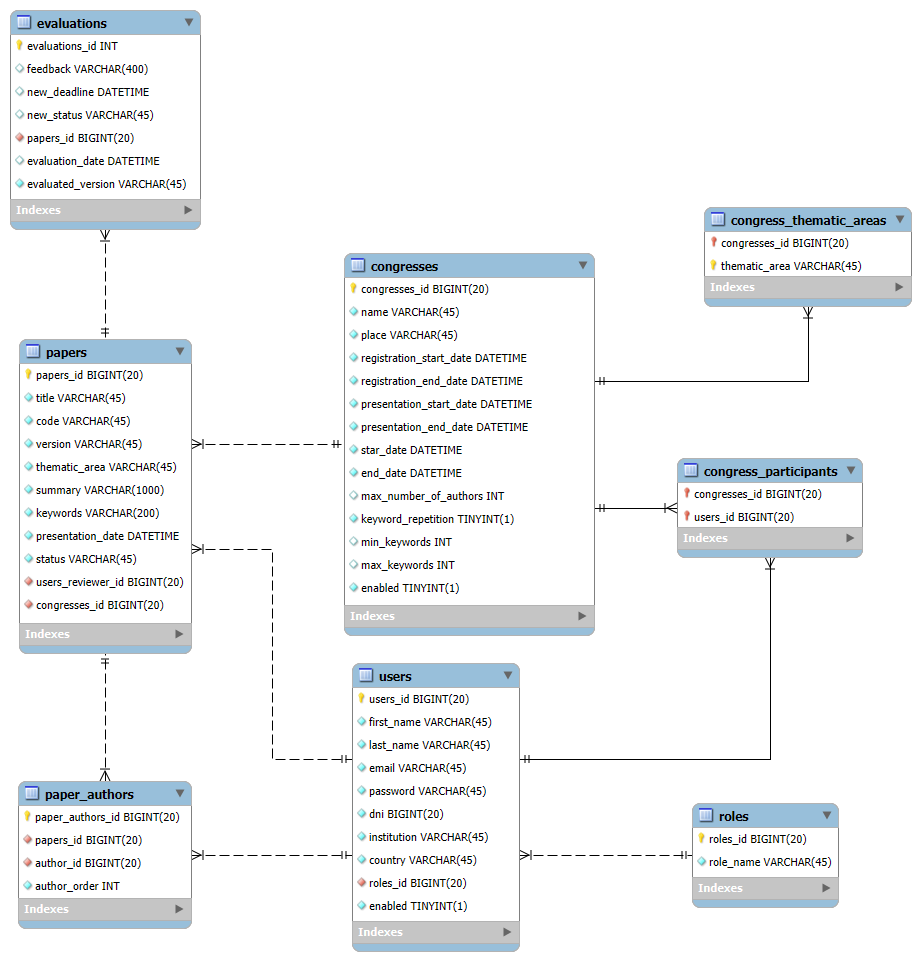
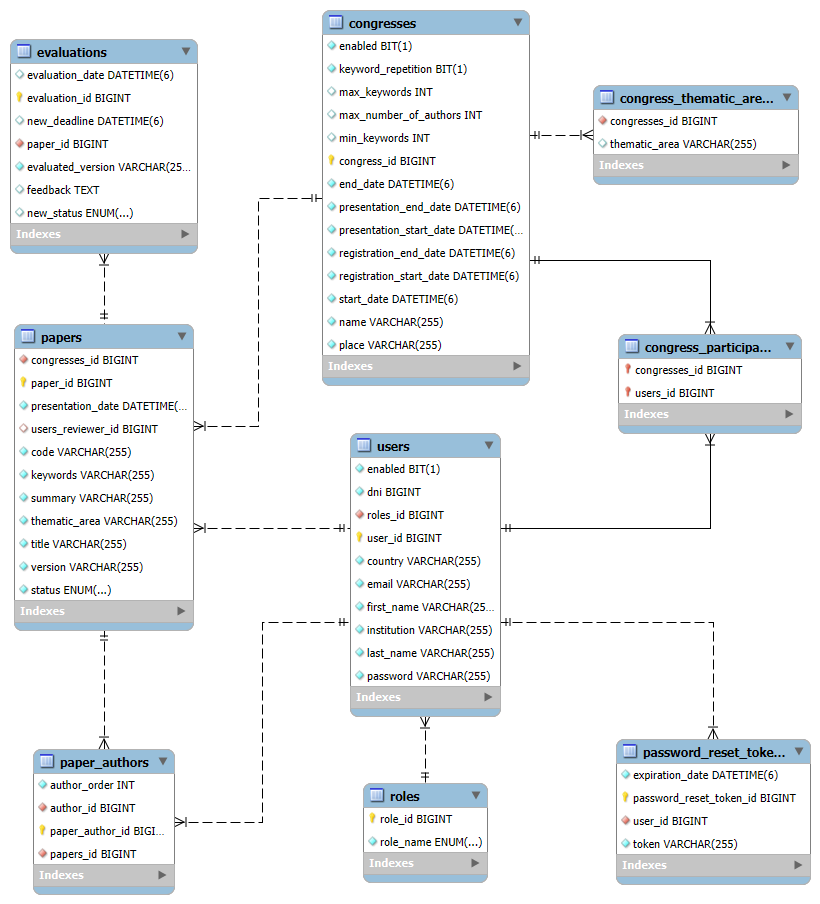
Genera flujo completo para recuperar contraseña de usuario

diff --git a/src/main/java/com/tfi/gestion_congresos_backend/services/impl/AuthServiceImpl.java b/src/main/java/com/tfi/gestion_congresos_backend/services/impl/AuthServiceImpl.java
@@ -1,15 +1,34 @@
 package com.tfi.gestion_congresos_backend.services.impl;
 
+import java.time.LocalDateTime;
+import java.time.ZoneId;
+import java.time.ZoneOffset;
+import java.util.Optional;
+import java.util.UUID;
+
 import org.springframework.security.crypto.password.PasswordEncoder;
 import org.springframework.stereotype.Service;
 
+import com.tfi.gestion_congresos_backend.dtos.auth.ForgotPasswordRequestDTO;
 import com.tfi.gestion_congresos_backend.dtos.auth.LoginRequestDTO;
 import com.tfi.gestion_congresos_backend.dtos.auth.LoginResponseDTO;
+import com.tfi.gestion_congresos_backend.dtos.auth.ResetPasswordRequestDTO;
+import com.tfi.gestion_congresos_backend.dtos.user.ChangePasswordRequestDTO;
+import com.tfi.gestion_congresos_backend.dtos.user.MessageResponseDTO;
+import com.tfi.gestion_congresos_backend.entities.PasswordResetToken;
 import com.tfi.gestion_congresos_backend.entities.User;
+import com.tfi.gestion_congresos_backend.exception.ArgumentNotValidException;
 import com.tfi.gestion_congresos_backend.exception.InvalidCredentialsException;
+import com.tfi.gestion_congresos_backend.exception.ResourceNotFoundException;
 import com.tfi.gestion_congresos_backend.exception.UserDisabledException;
 import com.tfi.gestion_congresos_backend.mapper.AuthMapper;
 import com.tfi.gestion_congresos_backend.services.AuthService;
+import com.tfi.gestion_congresos_backend.services.EmailService;
+import com.tfi.gestion_congresos_backend.utils.DateUtils;
+
+import jakarta.transaction.Transactional;
+
+import com.tfi.gestion_congresos_backend.repository.PasswordResetTokenRepository;
 import com.tfi.gestion_congresos_backend.repository.UserRepository;
 import com.tfi.gestion_congresos_backend.security.JwtService;
 
@@ -20,9 +39,11 @@ import lombok.*;
 public class AuthServiceImpl implements AuthService {
 
     private final UserRepository userRepository;
+    private final PasswordResetTokenRepository passwordResetTokenRepository;
     private final PasswordEncoder passwordEncoder;
     private final AuthMapper authMapper;
     private final JwtService jwtService;
+    private final EmailService emailService;
     
     @Override
     public LoginResponseDTO login(LoginRequestDTO request) {
@@ -45,4 +66,81 @@ public class AuthServiceImpl implements AuthService {
 
         return response;            
     }
+
+    @Override
+    public MessageResponseDTO forgotPassword(ForgotPasswordRequestDTO request) {
+        
+        ///Traer el usuario por mail
+        User user = userRepository.findByEmail(request.getEmail())
+        .orElseThrow(() -> new ResourceNotFoundException("User not found."));
+
+        Optional<PasswordResetToken> existingToken = passwordResetTokenRepository.findByUser(user);
+
+        PasswordResetToken passwordResetToken;
+
+        if (existingToken.isPresent()) {
+            passwordResetToken = existingToken.get();
+        } else {
+            passwordResetToken = new PasswordResetToken();
+        }
+
+        passwordResetToken.setUser(user);
+        passwordResetToken.setToken(UUID.randomUUID().toString());
+        passwordResetToken.setExpirationDate(DateUtils.now().plusMinutes(30));
+
+        passwordResetTokenRepository.save(passwordResetToken);
+
+        emailService.sendPasswordResetEmail(user, passwordResetToken.getToken());
+
+        return MessageResponseDTO.builder()
+            .message("Si el mail existe, el link de recuperación de contraseña a sido enviado.")
+            .build();
+    }
+
+    @Transactional
+    @Override
+    public MessageResponseDTO resetPassword(ResetPasswordRequestDTO request) {
+
+        PasswordResetToken passwordResetToken = passwordResetTokenRepository.findByToken(request.getToken())
+            .orElseThrow(() -> new ResourceNotFoundException("El token de recuperación no es válido."));
+
+        User user = passwordResetToken.getUser();
+
+        
+        validateTokenExpiration(passwordResetToken.getExpirationDate());
+        validatePasswordConfirmation(request.getNewPassword(), request.getConfirmPassword());
+        validateNewPassword(user.getPassword(), request.getNewPassword());
+
+        user.setPassword(passwordEncoder.encode(request.getNewPassword()));
+        userRepository.save(user);
+
+        passwordResetTokenRepository.delete(passwordResetToken);
+
+        return MessageResponseDTO.builder().message("Contraseña recuperada correctamente.").build();
+    }
+
+    ///PRIVADOS
+    private void validatePasswordConfirmation(String newPassword, String confirmPassword){
+        if (!newPassword.equals(confirmPassword)) {
+
+            throw new ArgumentNotValidException("Las contraseñas no coinciden");
+        }
+    }
+
+    private void validateNewPassword(String encodedCurrentPassword, String newPassword){
+        if (passwordEncoder.matches(newPassword, encodedCurrentPassword)) {
+
+            throw new ArgumentNotValidException("La contraseña nueva debe ser diferente a la actual");
+        }
+    }
+
+    private void validateTokenExpiration(LocalDateTime expirationDate){
+
+        if(expirationDate.isBefore(DateUtils.now())){
+
+            throw new ArgumentNotValidException("El token de recuperación ha expirado.");
+        }
+    }
+
+
 }

diff --git a/src/main/java/com/tfi/gestion_congresos_backend/services/impl/EmailServiceImpl.java b/src/main/java/com/tfi/gestion_congresos_backend/services/impl/EmailServiceImpl.java
@@ -1,0 +1,49 @@
+package com.tfi.gestion_congresos_backend.services.impl;
+
+import org.springframework.mail.SimpleMailMessage;
+import org.springframework.mail.javamail.JavaMailSender;
+import org.springframework.stereotype.Service;
+import org.springframework.beans.factory.annotation.Value;
+
+import com.tfi.gestion_congresos_backend.entities.User;
+import com.tfi.gestion_congresos_backend.services.EmailService;
+
+import lombok.*;
+
+@Service
+@RequiredArgsConstructor
+public class EmailServiceImpl implements EmailService {
+    
+    private final JavaMailSender mailSender;
+
+    @Value("${MAIL_USERNAME}")
+    private String from;
+
+    @Value("${FRONTEND_URL}")
+    private String frontendUrl;
+
+    @Override
+    public void sendPasswordResetEmail(User user, String token) {
+
+        
+        String resetLink = frontendUrl + "/reset-password?token=" + token;
+
+        SimpleMailMessage message = new SimpleMailMessage();
+
+        message.setFrom(from);
+        message.setTo(user.getEmail());
+        message.setSubject("Password Recovery");
+
+        message.setText(
+                "Hola " + user.getFirstName() + ",\n\n" +
+                "Recibimos una solicitud para restablecer tu contraseña.\n\n" +
+                "Ingresa al siguiente enlace para crear una nueva contraseña:\n\n" +
+                resetLink + "\n\n" +
+                "Este enlace caducará en 30 minutos.\n\n" +
+                "Si no solicitaste restablecer tu contraseña, puedes ignorar este correo."
+        );
+
+        mailSender.send(message);
+    }
+    
+}

diff --git a/src/main/java/com/tfi/gestion_congresos_backend/controllers/AuthController.java b/src/main/java/com/tfi/gestion_congresos_backend/controllers/AuthController.java
@@ -1,7 +1,10 @@
 package com.tfi.gestion_congresos_backend.controllers;
 
+import com.tfi.gestion_congresos_backend.dtos.auth.ForgotPasswordRequestDTO;
 import com.tfi.gestion_congresos_backend.dtos.auth.LoginRequestDTO;
 import com.tfi.gestion_congresos_backend.dtos.auth.LoginResponseDTO;
+import com.tfi.gestion_congresos_backend.dtos.auth.ResetPasswordRequestDTO;
+import com.tfi.gestion_congresos_backend.dtos.user.MessageResponseDTO;
 import com.tfi.gestion_congresos_backend.dtos.user.UserRequestDTO;
 import com.tfi.gestion_congresos_backend.dtos.user.UserResponseDTO;
 import com.tfi.gestion_congresos_backend.services.AuthService;
@@ -26,5 +29,17 @@ public class AuthController {
     public ResponseEntity<LoginResponseDTO> login(@RequestBody LoginRequestDTO request){
         
         return ResponseEntity.status(HttpStatus.CREATED).body(authService.login(request));
+    }
+
+    @PostMapping("/forgot-password")
+    public ResponseEntity<MessageResponseDTO> forgotPassword(@Valid @RequestBody ForgotPasswordRequestDTO request) {
+
+        return ResponseEntity.ok(authService.forgotPassword(request));
+    }
+
+    @PatchMapping("/reset-password")
+    public ResponseEntity<MessageResponseDTO> resetPassword(@Valid @RequestBody ResetPasswordRequestDTO request) {
+
+        return ResponseEntity.ok(authService.resetPassword(request));
     }
 }

diff --git a/src/main/java/com/tfi/gestion_congresos_backend/config/SecurityConfig.java b/src/main/java/com/tfi/gestion_congresos_backend/config/SecurityConfig.java
@@ -38,10 +38,16 @@ public class SecurityConfig {
                 .authorizeHttpRequests(auth -> auth
                         // Permitir explícitamente todas las peticiones OPTIONS preflight
                         .requestMatchers(org.springframework.http.HttpMethod.OPTIONS, "/**").permitAll()
-                        //.requestMatchers("/api/auth/**").permitAll() // ruta pública
-                        //.requestMatchers(HttpMethod.POST, "/api/users").permitAll()
-                        //.anyRequest().authenticated() // el resto requiere autenticacion
+
+                        /* 
+                        .requestMatchers(
+                            "/api/auth/**",
+                            "/api/auth/reset-password").permitAll() // ruta pública
+                        .requestMatchers(HttpMethod.POST, "/api/users").permitAll()
+                        .anyRequest().authenticated() // el resto requiere autenticacion
+                        */
                         .anyRequest().permitAll()
+                        
                 );
                 // agregamos el filtro 
                 //.addFilterBefore(jwtAuthenticationFilter, UsernamePasswordAuthenticationFilter.class);

diff --git a/src/main/java/com/tfi/gestion_congresos_backend/entities/PasswordResetToken.java b/src/main/java/com/tfi/gestion_congresos_backend/entities/PasswordResetToken.java
@@ -1,0 +1,30 @@
+package com.tfi.gestion_congresos_backend.entities;
+
+import java.time.LocalDateTime;
+import jakarta.persistence.*;
+import lombok.*;
+
+@Builder
+@Getter
+@Setter
+@AllArgsConstructor
+@NoArgsConstructor
+@EqualsAndHashCode(onlyExplicitlyIncluded = true)
+@Entity
+@Table(name = "password_reset_tokens")
+public class PasswordResetToken {
+
+    @Id
+    @GeneratedValue(strategy = GenerationType.IDENTITY)
+    private Long passwordResetTokenId;
+
+    @Column(nullable = false, unique = true)
+    private String token;
+
+    @Column(nullable = false)
+    private LocalDateTime expirationDate;
+
+    @OneToOne
+    @JoinColumn(name = "user_id", nullable = false, unique = true)
+    private User user;
+}

diff --git a/src/main/java/com/tfi/gestion_congresos_backend/services/AuthService.java b/src/main/java/com/tfi/gestion_congresos_backend/services/AuthService.java
@@ -1,10 +1,17 @@
 package com.tfi.gestion_congresos_backend.services;
 
+import com.tfi.gestion_congresos_backend.dtos.auth.ForgotPasswordRequestDTO;
 import com.tfi.gestion_congresos_backend.dtos.auth.LoginRequestDTO;
 import com.tfi.gestion_congresos_backend.dtos.auth.LoginResponseDTO;
+import com.tfi.gestion_congresos_backend.dtos.auth.ResetPasswordRequestDTO;
+import com.tfi.gestion_congresos_backend.dtos.user.MessageResponseDTO;
 
 public interface AuthService {
 
     LoginResponseDTO login(LoginRequestDTO request);
-    
+
+    MessageResponseDTO forgotPassword(ForgotPasswordRequestDTO request);
+
+    MessageResponseDTO resetPassword(ResetPasswordRequestDTO request);
+
 }

diff --git a/src/main/java/com/tfi/gestion_congresos_backend/repository/PasswordResetTokenRepository.java b/src/main/java/com/tfi/gestion_congresos_backend/repository/PasswordResetTokenRepository.java
@@ -1,0 +1,15 @@
+package com.tfi.gestion_congresos_backend.repository;
+
+import java.util.Optional;
+
+import org.springframework.data.jpa.repository.JpaRepository;
+
+import com.tfi.gestion_congresos_backend.entities.PasswordResetToken;
+import com.tfi.gestion_congresos_backend.entities.User;
+
+public interface PasswordResetTokenRepository extends JpaRepository<PasswordResetToken, Long> {
+    
+    Optional<PasswordResetToken> findByUser(User user);
+
+    Optional<PasswordResetToken> findByToken(String token);
+}

diff --git a/src/main/java/com/tfi/gestion_congresos_backend/dtos/auth/ResetPasswordRequestDTO.java b/src/main/java/com/tfi/gestion_congresos_backend/dtos/auth/ResetPasswordRequestDTO.java
@@ -1,0 +1,21 @@
+package com.tfi.gestion_congresos_backend.dtos.auth;
+
+import jakarta.validation.constraints.NotBlank;
+import lombok.*;
+
+@Getter
+@Setter
+@NoArgsConstructor
+@AllArgsConstructor
+@Builder
+public class ResetPasswordRequestDTO {
+
+    @NotBlank(message = "El Token es requerido.")
+    private String token;
+
+    @NotBlank(message = "La contraseña es requerida.")
+    private String newPassword;
+
+    @NotBlank(message = "La contraseña es requerida")
+    private String confirmPassword;
+}

diff --git a/src/main/java/com/tfi/gestion_congresos_backend/utils/DateUtils.java b/src/main/java/com/tfi/gestion_congresos_backend/utils/DateUtils.java
@@ -1,0 +1,18 @@
+package com.tfi.gestion_congresos_backend.utils;
+
+import java.time.LocalDateTime;
+import java.time.ZoneId;
+
+public final class DateUtils {
+
+    private static final ZoneId ARGENTINA_ZONE =
+            ZoneId.of("America/Argentina/Buenos_Aires");
+
+    private DateUtils() {
+        // Evita instanciar la clase
+    }
+
+    public static LocalDateTime now() {
+        return LocalDateTime.now(ARGENTINA_ZONE);
+    }
+}

diff --git a/src/main/java/com/tfi/gestion_congresos_backend/dtos/auth/ForgotPasswordRequestDTO.java b/src/main/java/com/tfi/gestion_congresos_backend/dtos/auth/ForgotPasswordRequestDTO.java
@@ -1,0 +1,17 @@
+package com.tfi.gestion_congresos_backend.dtos.auth;
+
+import jakarta.validation.constraints.Email;
+import jakarta.validation.constraints.NotBlank;
+import lombok.*;
+
+@Getter
+@Setter
+@AllArgsConstructor
+@NoArgsConstructor
+@Builder
+public class ForgotPasswordRequestDTO {
+
+    @NotBlank(message = "Email is required.")
+    @Email(message = "Invalid email format.")
+    private String email;
+}

diff --git a/src/main/java/com/tfi/gestion_congresos_backend/repository/RoleRepository.java b/src/main/java/com/tfi/gestion_congresos_backend/repository/RoleRepository.java
@@ -9,6 +9,6 @@ import com.tfi.gestion_congresos_backend.enums.RoleName;
 
 public interface RoleRepository extends JpaRepository<Role, Long> {
 
-        Optional<Role> findByName(RoleName name);
-
+        Optional<Role>findByName(RoleName name);
+        
 }

diff --git a/src/main/java/com/tfi/gestion_congresos_backend/services/EmailService.java b/src/main/java/com/tfi/gestion_congresos_backend/services/EmailService.java
@@ -1,0 +1,9 @@
+package com.tfi.gestion_congresos_backend.services;
+
+import com.tfi.gestion_congresos_backend.entities.User;
+
+public interface EmailService {
+
+    void sendPasswordResetEmail(User user, String token);
+
+}
